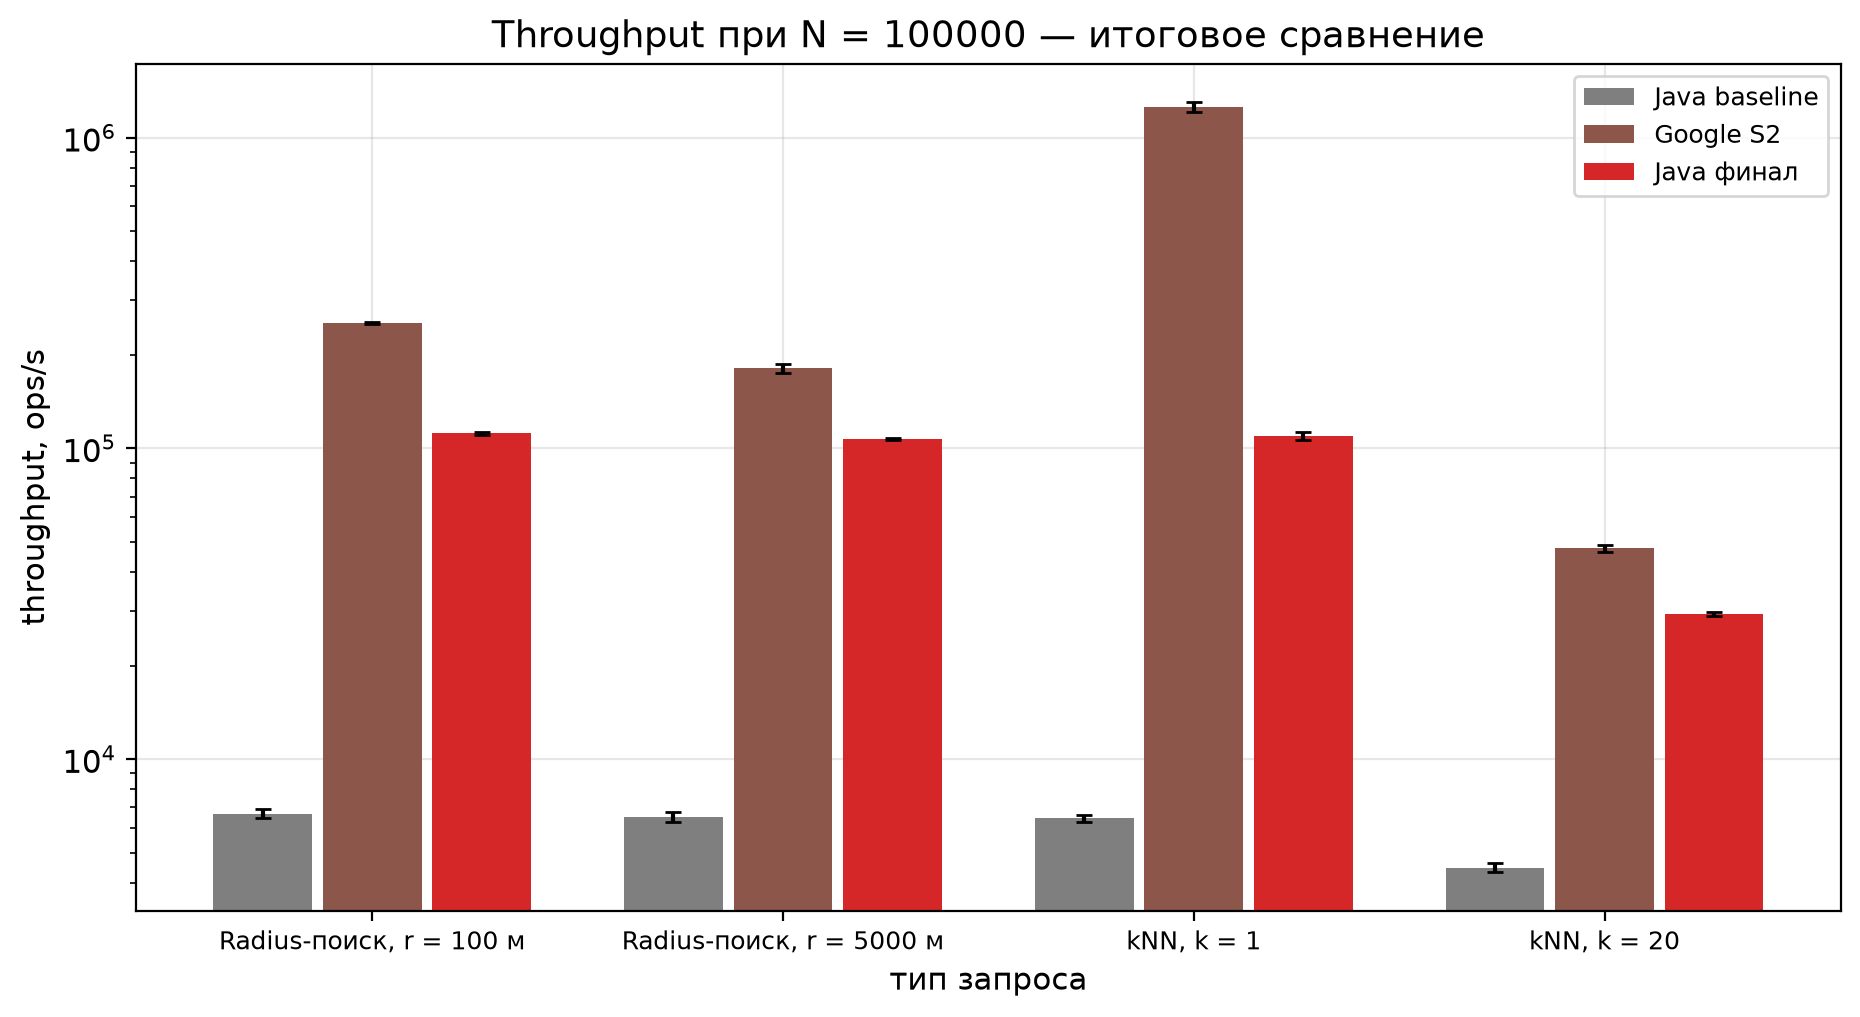
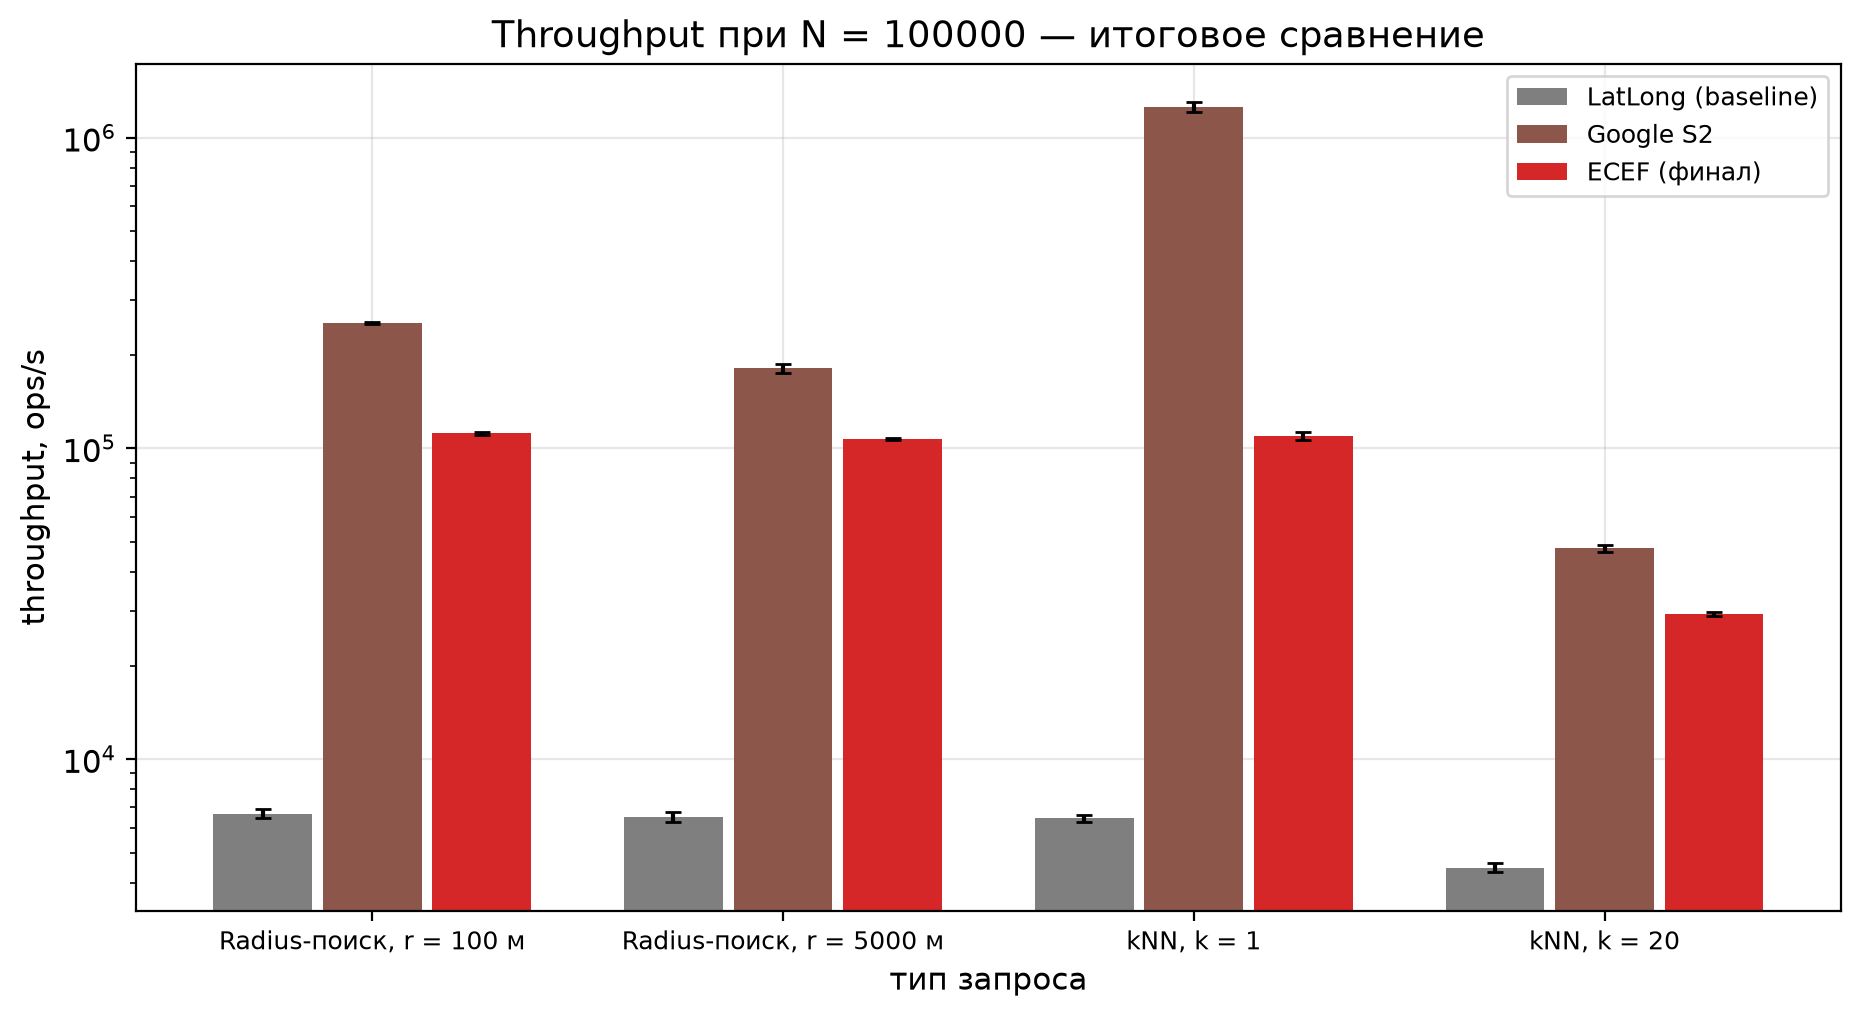
docs: scientific wording, abbreviations

Changed region(s): [[0.8108, 0.061, 0.9978, 0.2134]]

diff --git a/lab-1-java-geo-kdtree/tools/make_ecef_charts.py b/lab-1-java-geo-kdtree/tools/make_ecef_charts.py
@@ -57,13 +57,13 @@ GRID = ROOT / "report/bench/grid"
 CHARTS = ROOT / "report/charts"
 
 SERIES = [
-    ("геодезическое ядро", "perf6-trigcache", {"color": "#d62728", "linestyle": "-"}),
-    ("ECEF-ядро (канон)", "ecef", {"color": "#9467bd", "linestyle": "-"}),
+    ("LatLong", "perf6-trigcache", {"color": "#d62728", "linestyle": "-"}),
+    ("ECEF", "ecef", {"color": "#9467bd", "linestyle": "-"}),
     ("Google S2", "public-s2", {"color": "#2ca02c", "linestyle": "--"}),
 ]
 MAIN_SERIES = SERIES
 STATIC_SERIES = [
-    ("ECEF-ядро (канон)", "ecef", {"color": "#9467bd", "linestyle": "-"}),
+    ("ECEF", "ecef", {"color": "#9467bd", "linestyle": "-"}),
     ("Smile KDTree (статика)", "public-smile", {"color": "#8c564b", "linestyle": "--"}),
 ]
 METHOD_OF = {
@@ -120,7 +120,7 @@ def chart_throughput(data):
         ax.set_yscale("log")
         ax.set_xlabel("число точек в индексе, N")
         ax.set_ylabel("throughput, ops/s")
-        ax.set_title(f"{title} — геодезическое ядро / ECEF-ядро / S2, с ДИ")
+        ax.set_title(f"{title} — LatLong / ECEF / S2 (± ДИ)")
         ax.legend(fontsize=9)
         fig.savefig(out / f"throughput-{fam}-{param}.png")
         plt.close(fig)

diff --git a/lab-1-java-geo-kdtree/tools/make_charts.py b/lab-1-java-geo-kdtree/tools/make_charts.py
@@ -341,13 +341,13 @@ def chart_summary(java: dict[str, dict], cs: dict | None, smile: dict | None, ou
     entries = []
     if cs:
         entries.append(("C#", cs, {fam: CS_METHOD[kd_method(fam)] for fam in ("radius", "knn")}))
-    entries.append(("Java baseline", java.get("baseline"), {fam: kd_method(fam) for fam in ("radius", "knn")}))
+    entries.append(("LatLong (baseline)", java.get("baseline"), {fam: kd_method(fam) for fam in ("radius", "knn")}))
     if smile:
         entries.append(("Google S2", smile, {"radius": "queryS2Radius", "knn": "queryS2Knn"}))
-    entries.append(("Java финал", java.get("perf6-trigcache"), {fam: kd_method(fam) for fam in ("radius", "knn")}))
+    entries.append(("ECEF (финал)", java.get("perf6-trigcache"), {fam: kd_method(fam) for fam in ("radius", "knn")}))
 
-    color_of = {"C#": COLORS["csharp"], "Java baseline": COLORS["baseline"],
-                "Google S2": COLORS["smile"], "Java финал": COLORS["perf6-trigcache"]}
+    color_of = {"C#": COLORS["csharp"], "LatLong (baseline)": COLORS["baseline"],
+                "Google S2": COLORS["smile"], "ECEF (финал)": COLORS["perf6-trigcache"]}
 
     fig, ax = plt.subplots(figsize=(11, 5.5))
     width = 0.8 / max(len(entries), 1)

diff --git a/lab-1-java-geo-kdtree/README.md b/lab-1-java-geo-kdtree/README.md
@@ -1,6 +1,6 @@
 # Лабораторная 1 — Geo KD-tree (профилирование и тестирование производительности)
 
-Структура: корневой модуль — библиотека `org.timermakov.geo` (KD-tree, с ноября 2026 каноническое ядро — ECEF: `GeoKdTreeIndex`; геодезический вариант сохранён как `GeoGeodesicKdTreeIndex` для экспериментов), `:benchmarks` — JMH, `:profile-runner` — tight-loop прогон для профилировщика.
+Структура: корневой модуль — библиотека `org.timermakov.geo` (KD-tree; действующая реализация — ECEF в `GeoKdTreeIndex`, геодезическая сохранена как `GeoGeodesicKdTreeIndex` для экспериментов), `:benchmarks` — JMH, `:profile-runner` — tight-loop прогон для профилировщика.
 
 1. Geo KD-tree для точек `Lat/Lng`
 2. Вставка объектов `Insert`
@@ -70,7 +70,7 @@ async-profiler: приаттачиться к PID процесса `ProfileRunne
 
 Поверх него выполнено исследование производительности и оптимизации: отсечение дальних веток по долготе (seam-aware граница), сравнения в a-space без `sqrt`/`asin`, бинарная вставка в best-лист, кэш косинусов широт.
 
-Итог на расширенной сетке (N до 100000, см. [отчёты](report/)): ускорение к baseline ×16.4–17.0 для radius и kNN k=1, ×6.6 для kNN k=20; финал быстрее полного перебора в 570–1075 раз на n=100000. Каноническое ядро — ECEF (см. [5 — эксперименты со структурой](report/5-structure-experiments.md)); есть сравнение с C#, Smile и Google S2.
+Итог на расширенной сетке (N до 100000, см. [отчёты](report/)): ускорение к baseline ×16.4–17.0 для radius и kNN k=1, ×6.6 для kNN k=20; финал быстрее полного перебора в 570–1075 раз на n=100000. Каноническое реализация — ECEF (см. [5 — эксперименты со структурой](report/5-structure-experiments.md)); есть сравнение с C#, Smile и Google S2.
 
 ## Отчёты
 
@@ -79,9 +79,9 @@ async-profiler: приаттачиться к PID процесса `ProfileRunne
 - [report/2-optimization-cycle.md](report/2-optimization-cycle.md) — baseline и шесть состояний, главные графики
 - [report/3-real-data.md](report/3-real-data.md) — taxi/POI/8 млн точек, сравнение с C#
 - [report/4-public-comparison.md](report/4-public-comparison.md) — Smile и Google S2, разложение узлы × цена, точность
-- [report/5-structure-experiments.md](report/5-structure-experiments.md) — ECEF-ядро, многопрогонность, коробки (опровергнуто), scapegoat
+- [report/5-structure-experiments.md](report/5-structure-experiments.md) — ECEF, многопрогонность, коробки (опровергнуто), scapegoat
 - [report/6-related-work.md](report/6-related-work.md) — обзор библиотек (JTS, GEOS, S2, Lucene, JSI) и research gap
-- [report/7-static-vs-dynamic.md](report/7-static-vs-dynamic.md) — цена мутабельности: динамическое ядро против статического Smile
+- [report/7-static-vs-dynamic.md](report/7-static-vs-dynamic.md) — цена мутабельности: динамическое реализация против статического Smile
 - [report/research-plan.md](report/research-plan.md) — гипотезы H1–H6, статусы, отложенные пункты
 - `report/profiles/` — JFR-записи, HTML-флеймграфы, collapsed-стеки; `report/profiles/grid/` — по каждому состоянию на расширенной сетке; `report/profiles/images/` — скриншоты
 - `report/bench/` — сырые JMH-результаты; `report/bench/grid/` — замеры по состояниям на расширенной сетке + сводные таблицы
